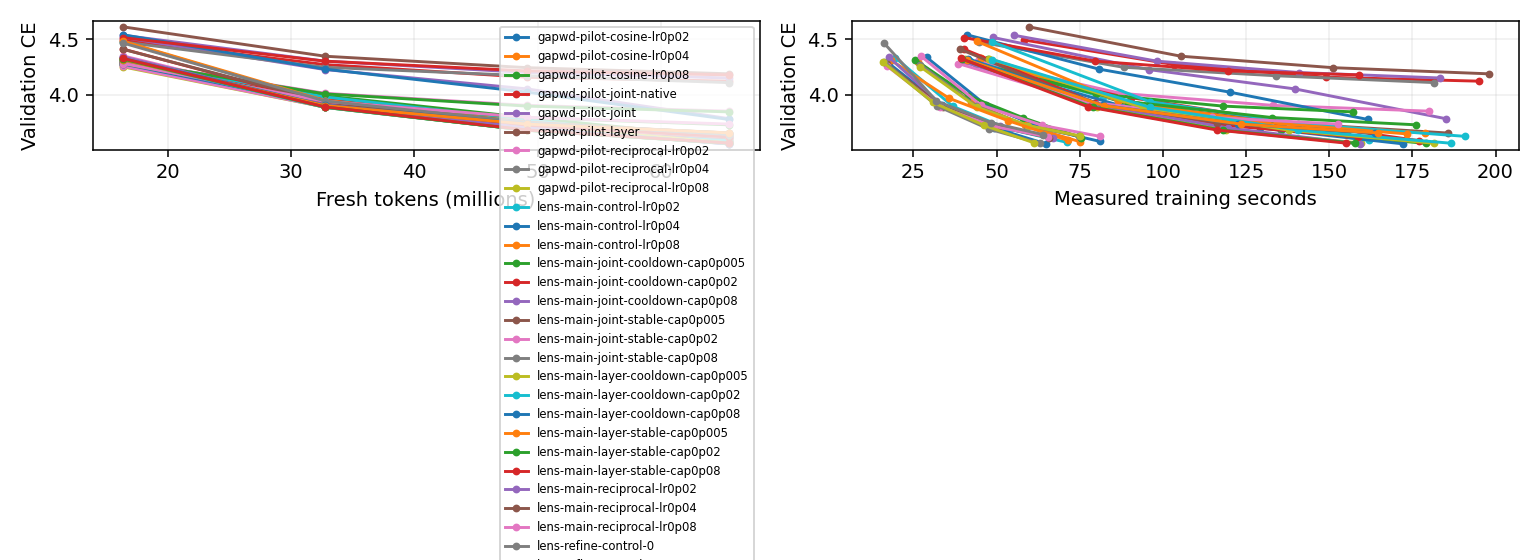
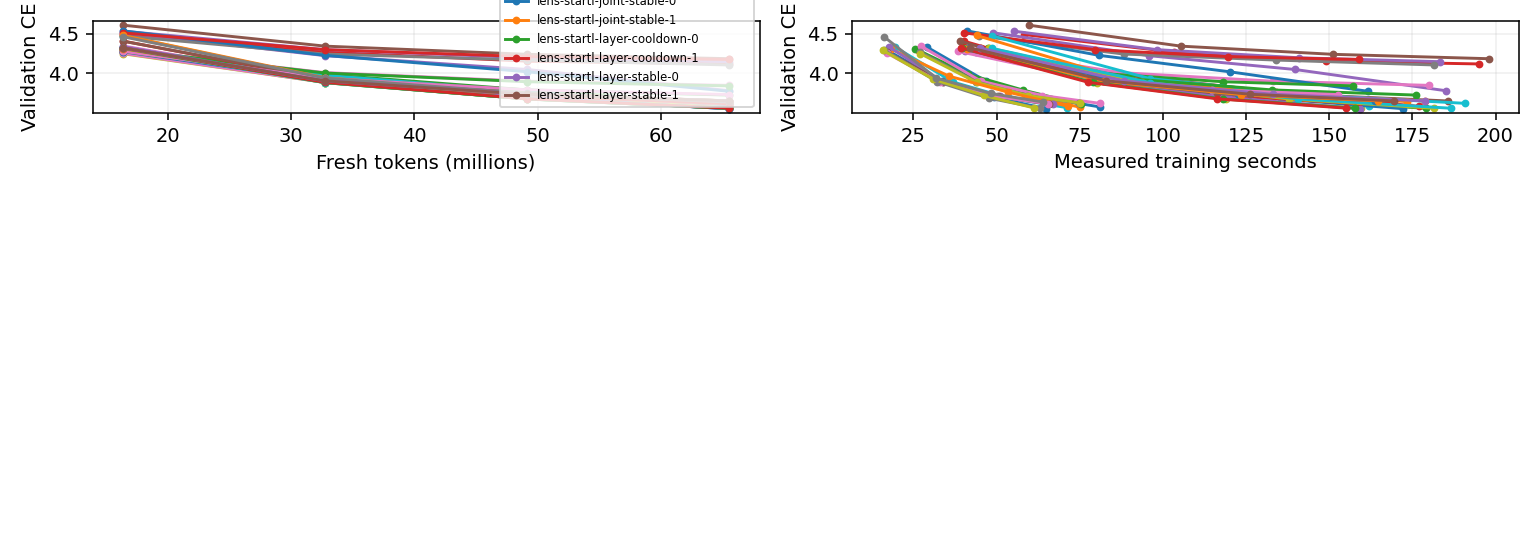
Update live Muon experiment results

diff --git a/research/unnormalized_muon/RESULTS.md b/research/unnormalized_muon/RESULTS.md
@@ -102,6 +102,8 @@ One B300 per job. CE is token cross-entropy (nats); lower is better. Rows with d
 | um-lens-startl-joint-stable-1 | Clean GapWD joint uniform v2 c-in-Q quadratic cap0.005/stable fixed_lambda=0.18375 WD:standard(0) | 2000 | 0 | 0.04 | 3.654224 | 1.107785 | — | 247.97 |
 | um-lens-startl-layer-cooldown-0 | Clean GapWD layer uniform v2 c-in-Q armijo cap0.005/cooldown fixed_lambda=0.18375 WD:standard(0) | 2000 | 0 | 0.04 | 3.560975 | 1.079534 | — | 241.03 |
 | um-lens-startl-layer-cooldown-1 | Clean GapWD layer uniform v2 c-in-Q armijo cap0.005/cooldown fixed_lambda=0.18375 WD:standard(0) | 2000 | 0 | 0.04 | 3.562346 | 1.079948 | — | 241.40 |
+| um-lens-startl-layer-stable-0 | Clean GapWD layer uniform v2 c-in-Q armijo cap0.005/stable fixed_lambda=0.18375 WD:standard(0) | 2000 | 0 | 0.04 | 3.654067 | 1.107714 | — | 247.29 |
+| um-lens-startl-layer-stable-1 | Clean GapWD layer uniform v2 c-in-Q armijo cap0.005/stable fixed_lambda=0.18375 WD:standard(0) | 2000 | 0 | 0.04 | 3.653376 | 1.107509 | — | 237.19 |
 | um-screen-00-0-native-lr0p005 | Native cooldown | 2000 | 0 | 0.005 | 3.734536 | 1.132046 | — | 145.49 |
 | um-screen-00-1-scaled-lr0p0002 | Unnormalized cooldown | 2000 | 0 | 0.0002 | 4.818060 | 1.460343 | — | 153.42 |
 | um-screen-00-2-constant-lr0p0002 | Unnormalized constant | 2000 | 0 | 0.0002 | 4.581043 | 1.388601 | — | 151.98 |
@@ -157,7 +159,7 @@ One B300 per job. CE is token cross-entropy (nats); lower is better. Rows with d
 
 Review of um-fw-diagnostic-001: Compiled training f0 compared against functional candidate losses; vanishing-step mismatch2-4e-5 exceeded tolerance, leading to curvature1e186 and45 skipped steps. Replaced by paired functional reference and candidates; retain all645 measured forwards and GPUcost.
 
-Conservative charged/reserved total: 9.9032 / 30 B300 GPU-hours. Includes prior smoke/failed attempts and current maximum-duration reservations. Six-slot central queue; one B300 per run.
+Conservative charged/reserved total: 10.0530 / 30 B300 GPU-hours. Includes prior smoke/failed attempts and current maximum-duration reservations. Six-slot central queue; one B300 per run.
 
 CLEAN geometry disables row equilibration and NorMuon. Original clean runs use zero matrix decay; new WD runs explicitly label standard or cautious decay and their CLI coefficient. Same five Polar Express steps and Frobenius correction; scale by the per-matrix nonnegative FP32 inner product of the native Nesterov input with the NS/Frobenius direction. Shape scaling occurs once outside the scalar. Legacy rows retain production extras and must be compared separately. Constant schedule changes only matrix LR; auxiliary schedules and momentum remain matched.
 

diff --git a/research/unnormalized_muon/FW_LENS_RESULTS.md b/research/unnormalized_muon/FW_LENS_RESULTS.md
@@ -52,6 +52,8 @@ Token-based schedule curves are descriptive. Independently scheduled equal-time 
 | um-lens-startl-joint-stable-1 | joint-stable | 2000 updates | 0 | 3.654224 | — | 164.874 | 5999 | 38.396 | 247.97 |
 | um-lens-startl-layer-cooldown-0 | layer-cooldown | 2000 updates | 0 | 3.560975 | — | 157.831 | 4000 | 38.386 | 241.03 |
 | um-lens-startl-layer-cooldown-1 | layer-cooldown | 2000 updates | 0 | 3.562346 | — | 155.110 | 4000 | 40.323 | 241.40 |
+| um-lens-startl-layer-stable-0 | layer-stable | 2000 updates | 0 | 3.654067 | — | 179.069 | 4000 | 31.795 | 247.29 |
+| um-lens-startl-layer-stable-1 | layer-stable | 2000 updates | 0 | 3.653376 | — | 169.669 | 4000 | 31.552 | 237.19 |
 
 ## Adaptive diagnostics and contraction
 
@@ -91,5 +93,7 @@ Contraction is the actual coefficient product_t(1-lambda*eta_l,t), represented i
 | um-lens-startl-joint-stable-1 | 2000/2000 | 0 | 0.005 | 0.00091875 | 0.025 | 2 | -1.819 to -1.819 | 0.30593 |
 | um-lens-startl-layer-cooldown-0 | 2000/2000 | 0 | 0.0037906 | 0.00069652 | 1e-16 | 1 | -1.253 to -1.227 | 0.329018 |
 | um-lens-startl-layer-cooldown-1 | 2000/2000 | 0 | 0.0037942 | 0.00069719 | 1e-16 | 1 | -1.253 to -1.229 | 0.32947 |
+| um-lens-startl-layer-stable-0 | 2000/2000 | 0 | 0.005 | 0.00091875 | 1e-16 | 1 | -1.82 to -1.801 | 0.306437 |
+| um-lens-startl-layer-stable-1 | 2000/2000 | 0 | 0.005 | 0.00091875 | 1e-16 | 1 | -1.82 to -1.793 | 0.309576 |
 
 Curvature values in Armijo variants parameterize proposals; their acceptance is NOT a certificate of the quadratic upper model. Final spectral ratios are lambda*||W_l||op/c_l; native approximate NS output is not certified to have unit spectral norm. Initial/final iterate feasibility alone does not certify oracle accuracy. Cold two-second clock checks intentionally permit one-update overshoot; do not use them as quality endpoints.

diff --git a/research/unnormalized_muon/DETAILED_EVAL.md b/research/unnormalized_muon/DETAILED_EVAL.md
@@ -441,3 +441,15 @@ um-lens-startl-layer-cooldown-1: accepted 2000/2000; skipped nonpositive blocks 
 
 Timing seconds: direction=52.435, reference=14.308, candidates=13.883, auxiliary=1.796.
 
+| um-lens-startl-layer-stable-0 | layer native | 0.1837499 | 2000 | 3.654067 | 4000 | 247.29 |
+
+um-lens-startl-layer-stable-0: accepted 2000/2000; skipped nonpositive blocks 205; median actual eta 0.005; median gamma 0.000918749; median L 1e-16; median trials 1; max measured spectral ratio lambda*||W||op=0.306437. Native approximate NS can violate the ideal unit-oracle premise; this is recorded, not hidden.
+
+Timing seconds: direction=68.799, reference=15.065, candidates=14.671, auxiliary=1.925.
+
+| um-lens-startl-layer-stable-1 | layer native | 0.1837499 | 2000 | 3.653376 | 4000 | 237.19 |
+
+um-lens-startl-layer-stable-1: accepted 2000/2000; skipped nonpositive blocks 226; median actual eta 0.005; median gamma 0.000918749; median L 1e-16; median trials 1; max measured spectral ratio lambda*||W||op=0.309576. Native approximate NS can violate the ideal unit-oracle premise; this is recorded, not hidden.
+
+Timing seconds: direction=60.805, reference=14.714, candidates=14.296, auxiliary=1.824.
+
